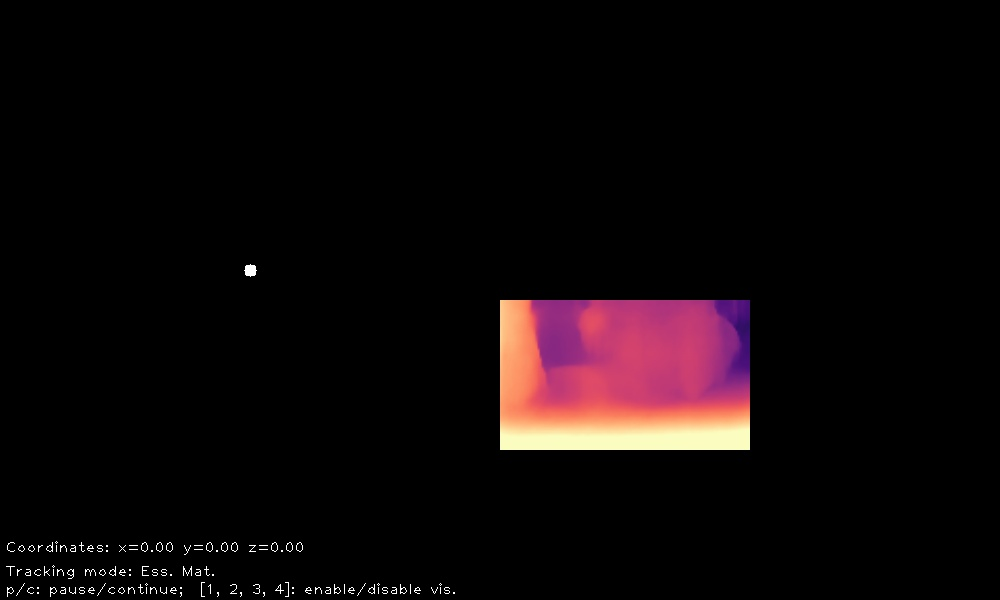
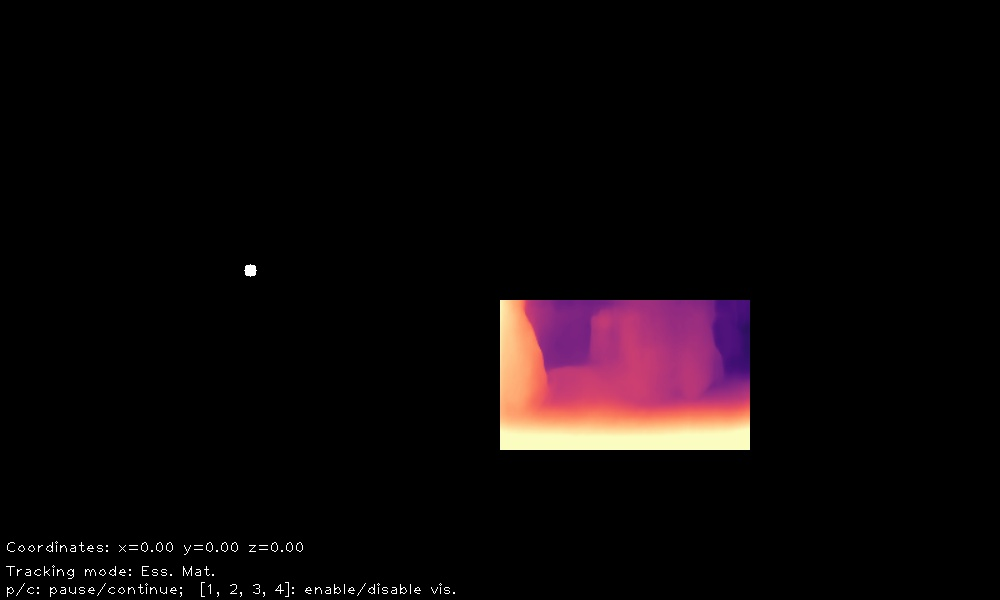
change deep_model_inference

Changed region(s): [[0.496, 0.48, 0.62, 0.69], [0.651, 0.48, 0.744, 0.66]]

diff --git a/libs/DCPVO.py b/libs/DCPVO.py
@@ -29,7 +29,8 @@ class DCPVO():
         """
         # configuration
         self.cfg = cfg
-
+        self.img_centr_w = 200
+        self.img_centr_h = 100
         # tracking stage
         self.tracking_stage = 0
 
@@ -311,7 +312,7 @@ class DCPVO():
                 self.cur_data['raw_depth'] = \
                     self.deep_models.forward_depth(imgs=img_list)
                 self.cur_data['raw_depth'] = cv2.resize(self.cur_data['raw_depth'],
-                                                    (self.cfg.image.width, self.cfg.image.height),
+                                                    (self.img_centr_w, self.img_centr_h),
                                                     interpolation=cv2.INTER_NEAREST
                                                     )
                 self.timers.end('depth_cnn')
@@ -320,17 +321,22 @@ class DCPVO():
             # Two-view flow
             if self.tracking_stage >= 1:
                 self.timers.start('flow_cnn', 'deep inference')
-                flows = self.deep_models.forward_flow(
-                                        self.cur_data,
-                                        self.ref_data,
+                flows_peri = self.deep_models.forward_flow_img(
+                                        self.cur_data['img_peri'],
+                                        self.ref_data['img_peri'],
                                         forward_backward=self.cfg.deep_flow.forward_backward)
-                
+                flows_centr = self.deep_models.forward_flow_img(
+                                        self.cur_data['img_centr'],
+                                        self.ref_data['img_centr'],
+                                        forward_backward=self.cfg.deep_flow.forward_backward)
                 # Store flow
-                self.ref_data['flow'] = flows[(self.ref_data['id'], self.cur_data['id'])].copy()
+                self.ref_data['flow_peri'] = flows_peri[(self.ref_data['id'], self.cur_data['id'])].copy()
+                self.ref_data['flows_centr'] = flows_centr[(self.ref_data['id'], self.cur_data['id'])].copy()
                 if self.cfg.deep_flow.forward_backward:
-                    self.cur_data['flow'] = flows[(self.cur_data['id'], self.ref_data['id'])].copy()
-                    self.ref_data['flow_diff'] = flows[(self.ref_data['id'], self.cur_data['id'], "diff")].copy()
-                
+                    self.cur_data['flow_peri'] = flows_peri[(self.cur_data['id'], self.ref_data['id'])].copy()
+                    self.ref_data['flow_peri_diff'] = flows_peri[(self.ref_data['id'], self.cur_data['id'], "diff")].copy()
+                    self.cur_data['flows_centr'] = flows_peri[(self.cur_data['id'], self.ref_data['id'])].copy()
+                    self.ref_data['flows_centr_diff'] = flows_peri[(self.ref_data['id'], self.cur_data['id'], "diff")].copy()
                 self.timers.end('flow_cnn')
             
         # Relative camera pose

diff --git a/libs/deep_models/deep_models.py b/libs/deep_models/deep_models.py
@@ -140,6 +140,30 @@ class DeepModel():
             self.pose.setup_train(self, self.finetune_cfg.pose)
         
         self.model_optimizer = optim.Adam(self.parameters_to_train, self.learning_rate)
+    def forward_flow_img(self, in_cur_img,in_ref_img, forward_backward):
+         # Preprocess image
+        cur_imgs = np.transpose((in_cur_img)/255, (2, 0, 1))
+        ref_imgs = np.transpose((in_ref_img)/255, (2, 0, 1))
+        cur_imgs = torch.from_numpy(cur_imgs).unsqueeze(0).float().cuda()
+        ref_imgs = torch.from_numpy(ref_imgs).unsqueeze(0).float().cuda()
+        # Forward pass
+        flows = {}
+
+        # Flow inference
+        batch_flows = self.flow.inference_flow(
+                                img1=ref_imgs,
+                                img2=cur_imgs,
+                                forward_backward=forward_backward,
+                                dataset=self.cfg.dataset)
+        
+        # Save flows at current view
+        src_id = in_ref_img['id']
+        tgt_id = in_cur_img['id']
+        flows[(src_id, tgt_id)] = batch_flows['forward'].detach().cpu().numpy()[0]
+        if forward_backward:
+            flows[(tgt_id, src_id)] = batch_flows['backward'].detach().cpu().numpy()[0]
+            flows[(src_id, tgt_id, "diff")] = batch_flows['flow_diff'].detach().cpu().numpy()[0]
+        return flows
 
     def forward_flow(self, in_cur_data, in_ref_data, forward_backward):
         """Optical flow network forward interface, a forward inference.
